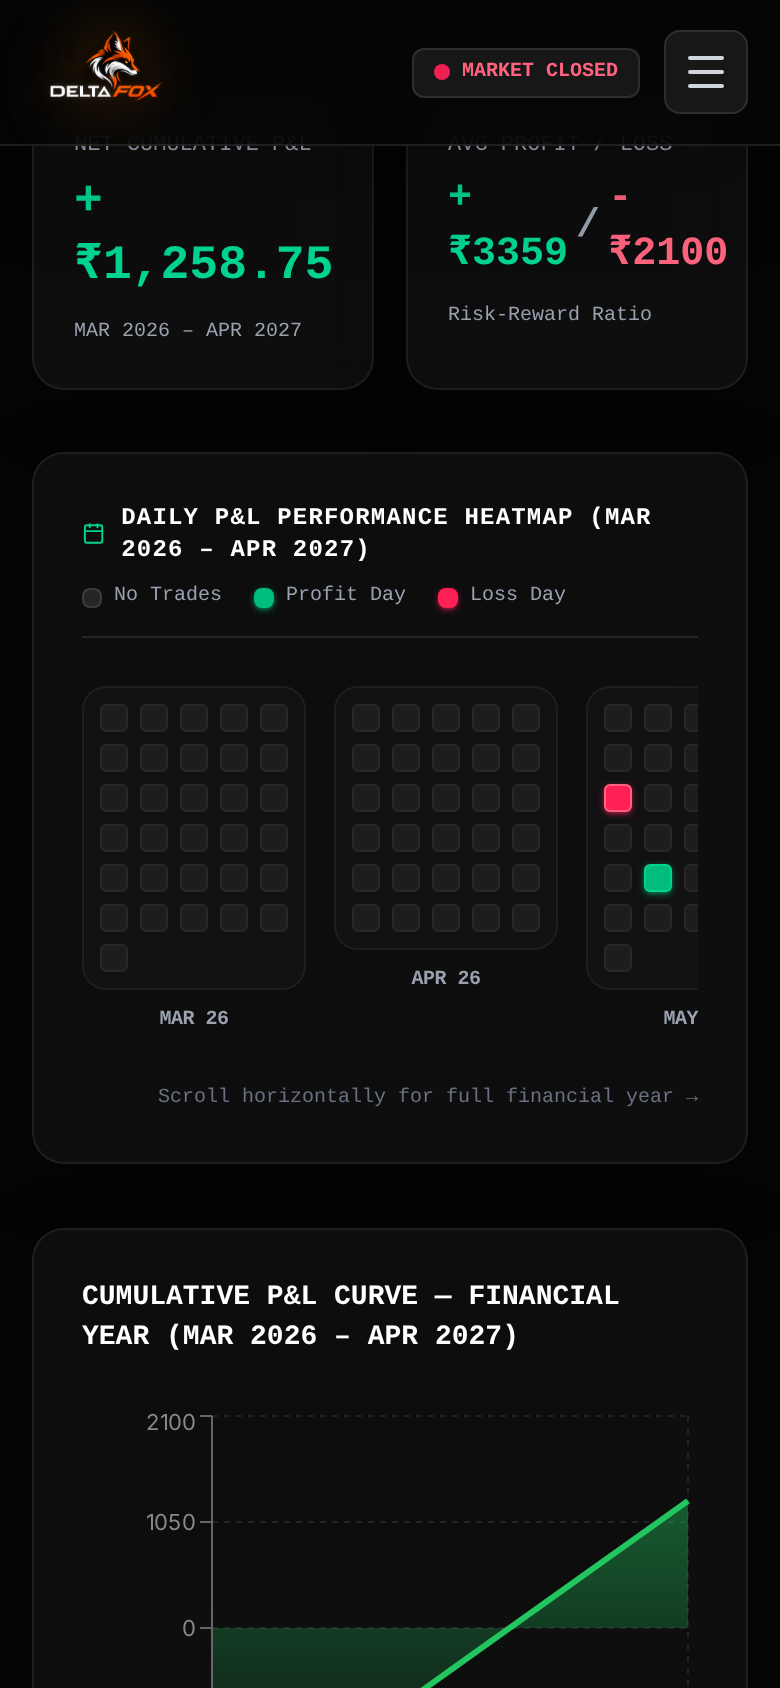
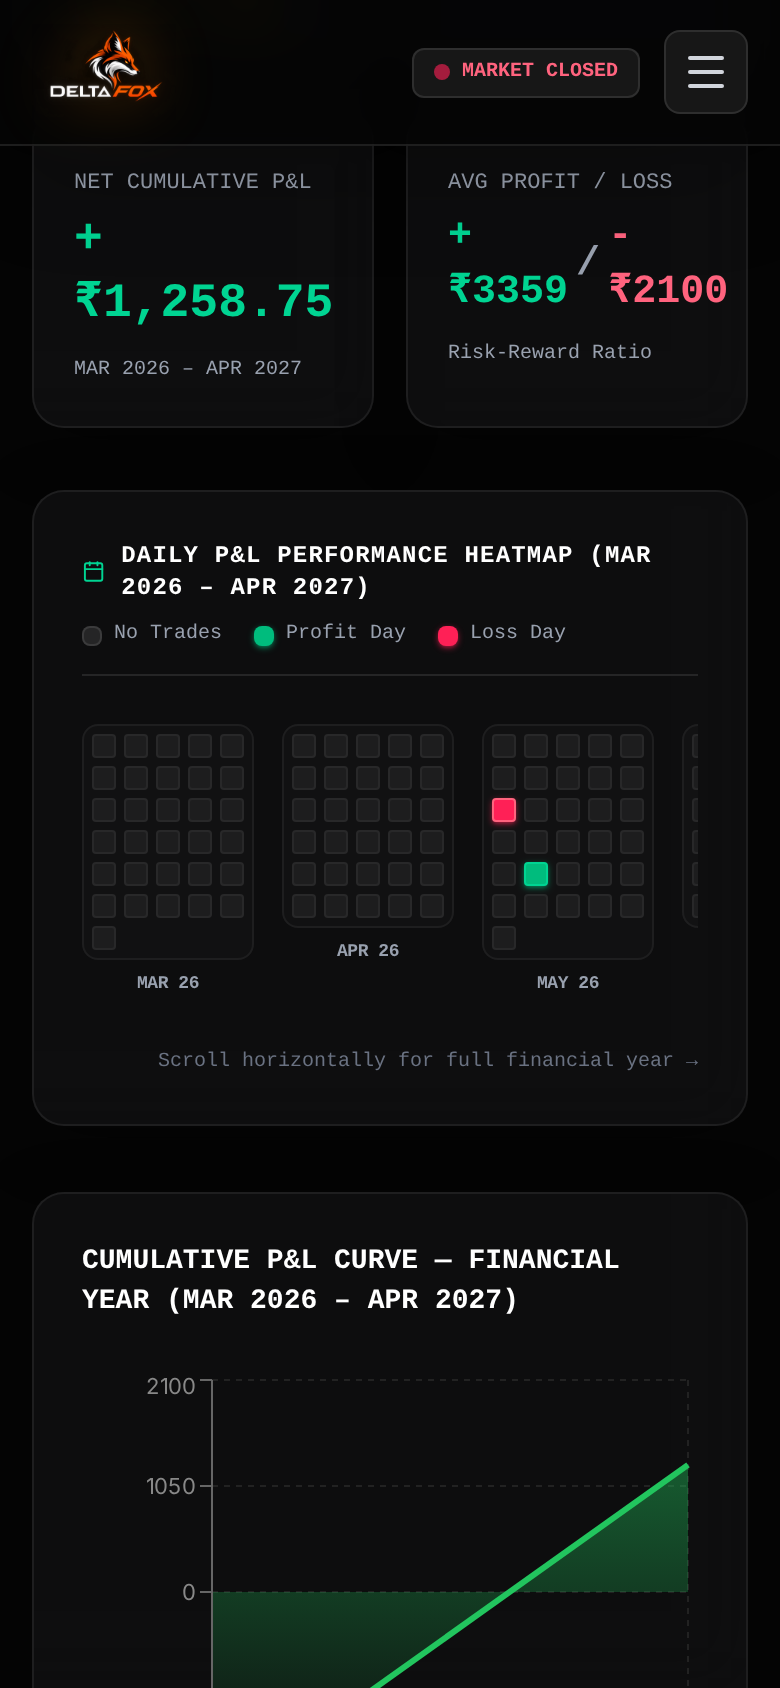
Remove horizontal scrollbar on laptop/desktop P&L heatmap while preserving mobile touch scrolling

diff --git a/src/components/PortfolioJournalSection.jsx b/src/components/PortfolioJournalSection.jsx
@@ -413,12 +413,12 @@ export default function PortfolioJournalSection() {
           </div>
 
           {/* Month Columns Grid */}
-          <div className="overflow-x-auto pt-2 pb-1 touch-pan-x scrollbar-thin scrollbar-thumb-white/10">
-            <div className="flex space-x-3.5 min-w-max pb-1">
+          <div className="overflow-x-auto md:overflow-x-visible pt-2 pb-1 touch-pan-x scrollbar-thin scrollbar-thumb-white/10">
+            <div className="flex max-md:min-w-max max-md:space-x-3.5 md:justify-between md:space-x-1 lg:space-x-2 pb-1">
               {heatmapMonths.map((m) => (
-                <div key={`${m.year}_${m.monthIdx}`} className="flex flex-col items-center space-y-2 flex-shrink-0">
+                <div key={`${m.year}_${m.monthIdx}`} className="flex flex-col items-center space-y-1.5 flex-shrink-0 md:flex-1 md:min-w-0">
                   {/* Daily Boxes Block (5 cols x 7 rows grid layout) */}
-                  <div className="grid grid-cols-5 gap-1.5 p-2 bg-white/[0.02] border border-white/5 rounded-xl">
+                  <div className="grid grid-cols-5 gap-1 p-1 sm:p-1.5 bg-white/[0.02] border border-white/5 rounded-lg xl:rounded-xl">
                     {m.days.map((d) => {
                       const isTraded = d.count > 0;
                       const isProfit = isTraded && d.pnl > 0;
@@ -436,14 +436,14 @@ export default function PortfolioJournalSection() {
                           key={d.key}
                           onMouseEnter={() => setHoveredDay(d)}
                           onMouseLeave={() => setHoveredDay(null)}
-                          className={`w-3.5 h-3.5 sm:w-4 sm:h-4 flex-shrink-0 aspect-square rounded-[3px] border transition-all cursor-pointer relative ${boxClass}`}
+                          className={`w-3 h-3 sm:w-3.5 sm:h-3.5 xl:w-4 xl:h-4 flex-shrink-0 aspect-square rounded-[2px] sm:rounded-[3px] border transition-all cursor-pointer relative ${boxClass}`}
                         />
                       );
                     })}
                   </div>
 
                   {/* Month Label */}
-                  <span className="text-[10px] font-mono font-bold text-gray-400 uppercase tracking-tight">
+                  <span className="text-[9px] sm:text-[10px] font-mono font-bold text-gray-400 uppercase tracking-tight text-center truncate w-full">
                     {m.label}
                   </span>
                 </div>
@@ -451,7 +451,7 @@ export default function PortfolioJournalSection() {
             </div>
           </div>
 
-          <div className="flex items-center justify-end text-[10px] font-mono text-gray-500 sm:hidden">
+          <div className="flex items-center justify-end text-[10px] font-mono text-gray-500 md:hidden">
             <span>Scroll horizontally for full financial year →</span>
           </div>
 
